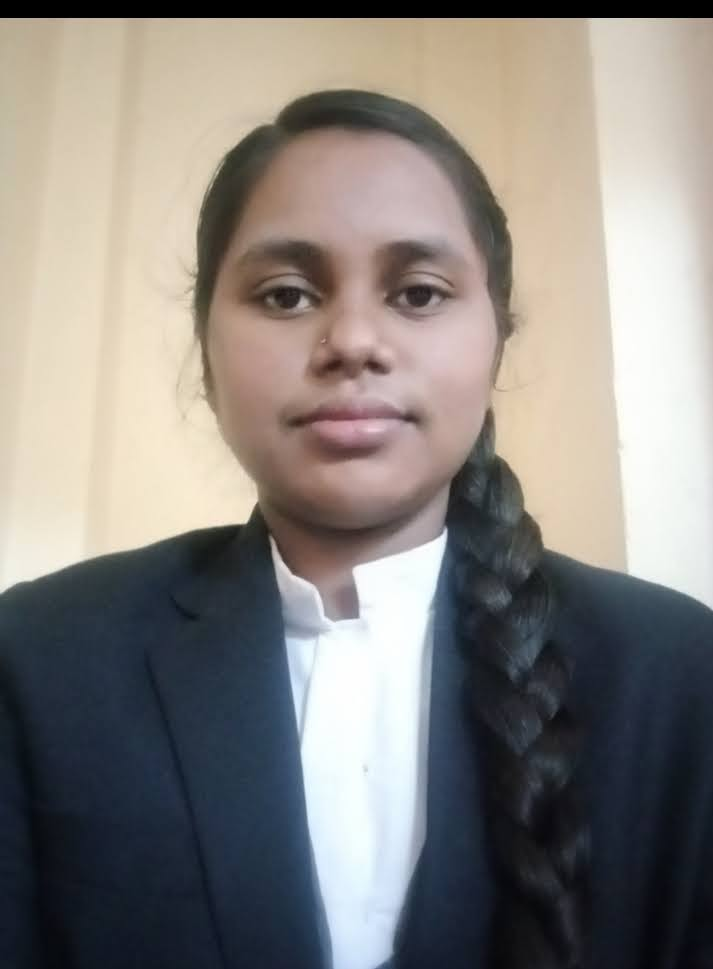
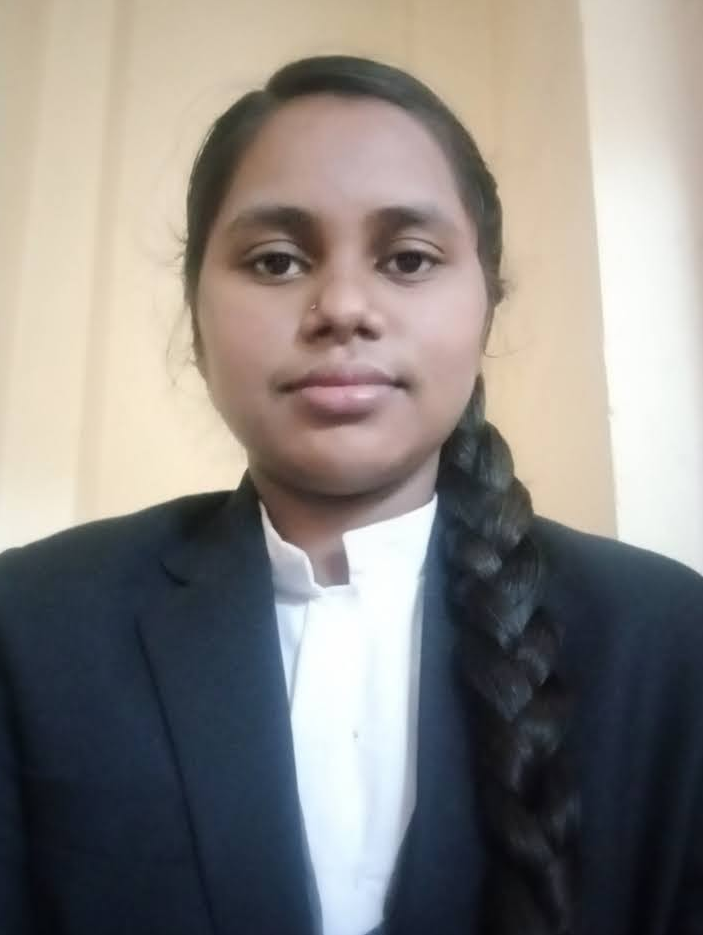
portfolio

diff --git a/style.css b/style.css
@@ -54,7 +54,7 @@ html {
 /* ---##-- REUSABLE CSS --##--- */
 
 img {
-    height: 30%;
+    height: 40%;
     width: 40%;
     text-align: center;
     border-radius: 50%;
@@ -280,7 +280,7 @@ nav {
 .image img {
     width: 380px;
     height: 380px;
-    object-fit: cover;
+    /* object-fit: cover; */
 }
 
 @keyframes imgFloat {
